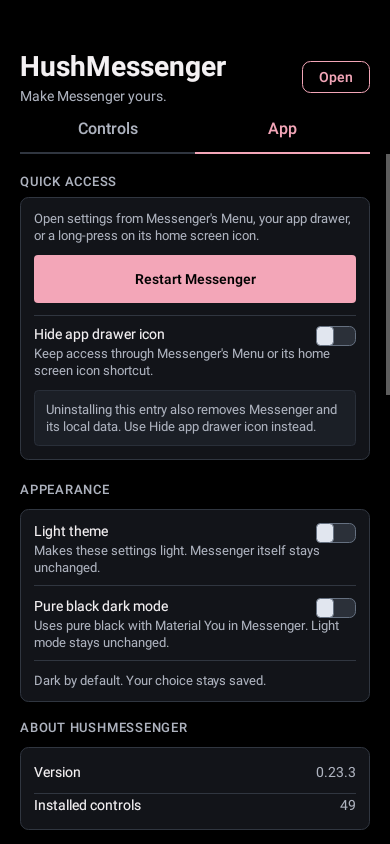
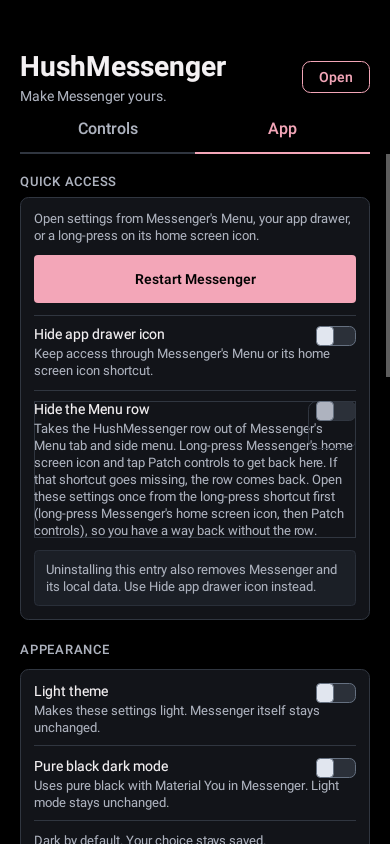
docs(readme): refresh the App tab screenshots
The App tab gained the Hide the Menu row control after the last capture. Rendered again with SettingsScreenshotTest; the Controls tab renders were unchanged.

Changed region(s): [[0.0308, 0.4621, 0.9538, 1.0], [0.9846, 0.4313, 1.0, 0.4929]]

diff --git a/README.md b/README.md
@@ -176,7 +176,7 @@ Auto replies keep a visible label above each field. An unfinished reply stays op
 The **App** tab starts with quick access and a restart button. Appearance and setup details follow. **Copy setup** copies the extension and host versions, Android version, pause state and each control's installed, selected and active flags. It includes each control's scope description and last recorded use. Recorded use means the control ran. It doesn't verify a visible effect or privacy protection. A control whose code failed gets one more line with the error's type, where in HushMessenger it happened and when, but never the error's message, since that could quote a chat. It excludes account details, chats, device identifiers and recovery material. Nothing is sent. You choose where to paste it. **Support HushMessenger** at the end of the tab opens my Ko-fi page in your browser. **Open** in the header returns to Messenger. Refreshing the source in Morphe downloads the patch bundle, but new controls only reach Messenger once you rebuild and install its APK.
 
 <p>
-  <img src="assets/settings-app-dark.png" width="300" alt="App tab in the dark theme with quick access, Restart Messenger and Hide app drawer icon">
+  <img src="assets/settings-app-dark.png" width="300" alt="App tab in the dark theme with quick access, Restart Messenger, Hide app drawer icon and Hide the Menu row">
   <img src="assets/settings-app-light.png" width="300" alt="App tab in the light theme">
 </p>
 
